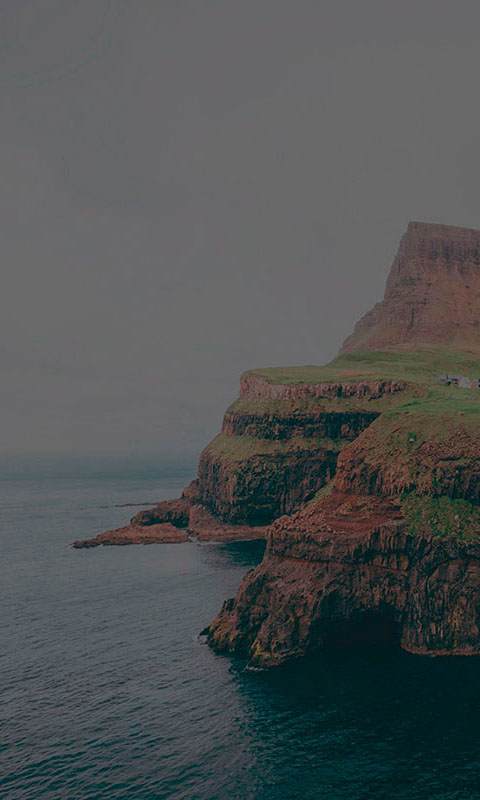
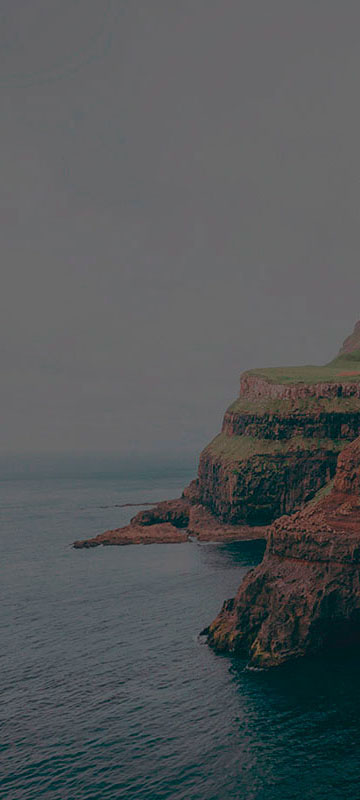
Correcion home mobile v2

Changed region(s): [[0.0, 0.2812, 1.0, 1.0]]

diff --git a/style/index.css b/style/index.css
@@ -1074,17 +1074,20 @@ form button{
         background-image: url('../images/paisaje10-mobile.jpg');
         background-repeat: no-repeat;
         background-size:contain;
+        
     }
 
     .seccion__segunda{
-        width: 80%;
+        width: 80%;        
         flex-direction: column;
-        padding: 0;
+        padding: 0px 0px 2rem 0px;
+        height: 70rem;
         
     }
 
     .seccion__segunda img{
         width: 70%;
+        height: 100%;
         margin-top: 2rem;
     }
 
